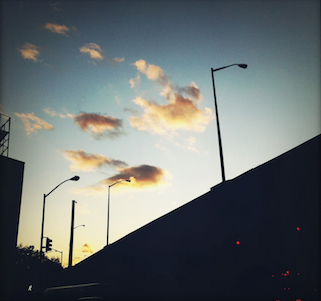
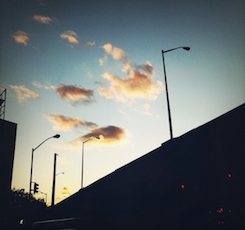
* about: fixed wav slice bug * about: spell check

diff --git a/meteor-app/client/components/content/about/template.html b/meteor-app/client/components/content/about/template.html
@@ -39,7 +39,7 @@
           </li>
 
           <li>
-            Check our day to day reseach+task list on
+            Check our day to day research + task list on
             <i class="fa fa-trello fa__inline"></i> <a href="https://trello.com/b/XtenDuNO/parallels-roadmap" target="_blank">
             Trello</a>
           </li>
@@ -53,7 +53,7 @@
           </li>
 
           <li>
-            <a href="https://gitter.im/parallelsio" target="_blank">Chat with us</a> on Gitter.
+            <a href="https://gitter.im/parallelsio" target="_blank">Chat with us</a> on Gitter
           </li>
         </ul>
       </p>
@@ -108,7 +108,7 @@
         <a href="https://spideroak.com/features/private-by-design" target="_blank">SpiderOak</a>,
         and other organizations + projects who value transparency + data privacy. 
         Our goal is to create a non-profit organization and run a crowdfunding campaign for short term funds. Ultimately though, we want to explore direct donation models, where
-        benefectors (you!) support the project via micropayments.
+        benefactors (you!) support the project via micropayments.
       </p>
 
       <p>
@@ -137,7 +137,7 @@
       <p>4 key design principles guide our design + vision:
       <ul>
         <li>
-          <b><i class="fa fa-paper-plane fa__leading-li"></i> Flow</b>: the pre-requisite for creativity: a low risk environment to
+          <b><i class="fa fa-paper-plane fa__leading-li"></i> Flow</b>: the prerequisite for creativity: a low risk environment to
           easily play. Infinite undo/redo. Always remember where you left off. Fun.
         </li>
 
@@ -184,8 +184,8 @@
           engineering-like flowcharts?
         </li>
 
-        <li>struggling to brainstorm with friends or co-workers on a project, and are looking for a shared digital space
-          that you can move back and forth between working individually and simoultanously?
+        <li>struggling to brainstorm with friends or coworkers on a project, and are looking for a shared digital space
+          that you can move back and forth between working individually and simultaneously?
         </li>
 
         <li>researching + designing a film? a play? a comic? a book? or other narrative where Google docs just isn't
@@ -214,7 +214,7 @@
         We're then inviting 350+ early adopters to share feedback, help us iterate on our designs, and explore many ways
         it can be used.
 
-        Once we have a clearer picture, we planning on running a crowfunding campaign to take us into the beta stage,
+        Once we have a clearer picture, we planning on running a crowdfunding campaign to take us into the beta stage,
         while we also look for institutional sponsors + partners, along with fiscal sponsorship. Our long term goal is to fund the project directly from people using and benefitting from it.
       </p>
 

diff --git a/meteor-app/client/components/content/about/rendered.js b/meteor-app/client/components/content/about/rendered.js
@@ -1,6 +1,6 @@
 Template.aboutContent.onRendered(function () {
   var template = this;
-  var img = $("<img src='images/ui/about-cropped.png' class='about__wave-slice-image' width='200px'>");
+  var img = $("<img src='images/ui/about-cropped.png' class='about__wave-slice-image' width='245px' height='230px'>");
   img.appendTo('body');
 
   Parallels.Keys.unbindActions();

diff --git a/meteor-app/client/components/content/about/styles.scss b/meteor-app/client/components/content/about/styles.scss
@@ -30,7 +30,8 @@
 
     .wave-slice {
       overflow: hidden;
-      height: 240px;
+        height: 440px;
+        margin: -50px 0;
     }
   }
 
